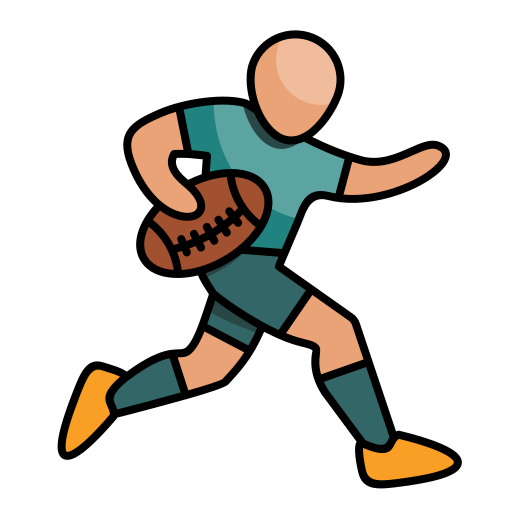
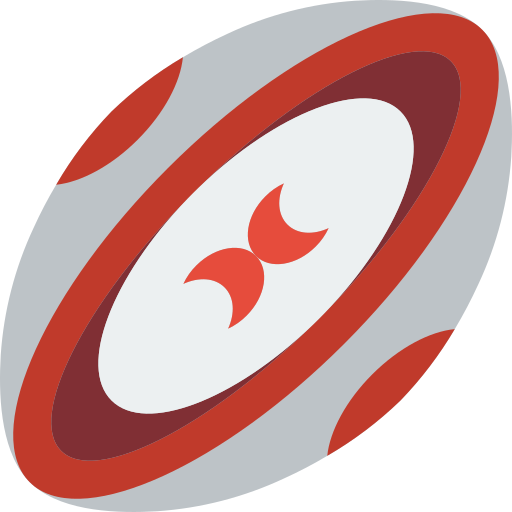
correccion en navbar

diff --git a/src/components/BottomNavbar.jsx b/src/components/BottomNavbar.jsx
@@ -1,16 +1,22 @@
-import { ClipboardDocumentCheckIcon, UserGroupIcon, CalendarIcon } from "@heroicons/react/24/outline";
-import { Link, useLocation, useParams } from "react-router-dom";
+import {
+  ClipboardDocumentCheckIcon,
+  UserGroupIcon,
+  CalendarIcon,
+} from "@heroicons/react/24/outline";
+import { Link, useLocation } from "react-router-dom";
 import { isValidDivision } from "../utils/divisions";
 
 export default function BottomNavbar() {
   const location = useLocation();
-  const { division = "plantel-superior" } = useParams();
 
   if (location.pathname === "/") {
     return null;
   }
 
-  const currentDivision = isValidDivision(division) ? division : "plantel-superior";
+  const firstSegment = location.pathname.split("/")[1];
+  const currentDivision = isValidDivision(firstSegment)
+    ? firstSegment
+    : "plantel-superior";
 
   const items = [
     {
@@ -18,8 +24,16 @@ export default function BottomNavbar() {
       label: "Asistencias",
       icon: ClipboardDocumentCheckIcon,
     },
-    { path: `/${currentDivision}/jugadores`, label: "Jugadores", icon: UserGroupIcon },
-    { path: `/${currentDivision}/plan`, label: "Plan", icon: CalendarIcon },
+    {
+      path: `/${currentDivision}/jugadores`,
+      label: "Jugadores",
+      icon: UserGroupIcon,
+    },
+    {
+      path: `/${currentDivision}/plan`,
+      label: "Plan",
+      icon: CalendarIcon,
+    },
   ];
 
   return (

diff --git a/src/pages/PlantelSuperior.jsx b/src/pages/PlantelSuperior.jsx
@@ -16,7 +16,7 @@ export default function PlantelSuperior() {
         <Link to={`/${division}/jugadores`}>
           <div className="bg-white p-6 rounded-xl shadow cursor-pointer hover:shadow-lg transition flex items-start space-x-3">
             <div className="h-12 w-12 flex items-center justify-center bg-blue-100 rounded-full">
-              <img src="/rugby.png" alt="rugby icon" className="h-8 w-8" />
+              <img src="/rugby-player.png" alt="rugby icon" className="h-8 w-8" />
             </div>
             <div>
               <h2 className="text-xl font-semibold">Lista de jugadores</h2>
@@ -40,7 +40,8 @@ export default function PlantelSuperior() {
         <Link to={`/${division}/plan`}>
           <div className="bg-white p-6 rounded-xl shadow cursor-pointer hover:shadow-lg transition flex items-start space-x-3 md:col-span-2">
             <div className="h-12 w-12 flex items-center justify-center bg-purple-100 rounded-full">
-              <img src="/logo512.png" alt="plan icon" className="h-8 w-8" />
+              <img src="/rugby.png" alt="plan icon" className="h-8 w-8" />
+
             </div>
             <div>
               <h2 className="text-xl font-semibold">Plan de entrenamiento</h2>
